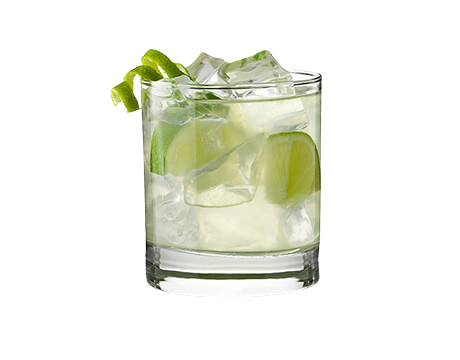
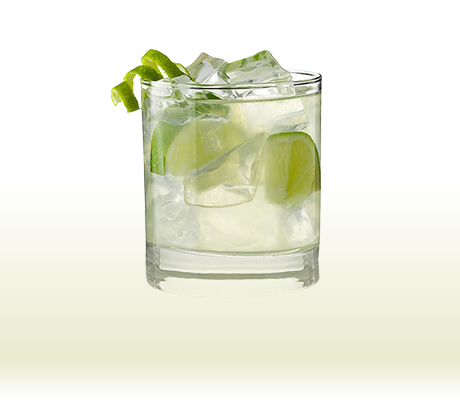
Add files via upload

diff --git a/menu-b52/menu-b52.html b/menu-b52/menu-b52.html
@@ -26,37 +26,61 @@
                     <li><a href="#bottled-drinks">BOTTLED DRINKS</a></li>
                     <li><a href="#juices">JUICES</a></li>
                     <li><a href="#milkshakes">MILKSHAKES</a></li>
-                    <li><a href="#coffees">COFFEES</a></li>
                     <i class="fa-solid fa-xmark fas" style="color: #fff;" onclick="closemenu()"></i>
                 </ul>
                 <i class="fa-solid fa-bars fas" id="mobile-menu" onclick="openmenu()"></i>
             </nav>
-           
+
+
+
+            
         </div>
+    </div>
+
+    <div class="cocktail-header">
+        <h1>THE <span>B-52 BAR</span> MENU</h1>
     </div>
 
     <div id="cocktails">
         <div class="container">
 
-            <div class="cocktail-header">
-                <h1>THE <span>B-52 BAR</span> MENU</h1>
-            </div>
+            
 
+
+            <div class="cocktail-header" id = "cocktail-list">
+              <h1>POPULAR COCKTAILS</h1>
+          </div>
             <div id="carouselExample" class="carousel slide">
               
               <div class="carousel-inner">
                 <div class="carousel-item active">
                   <img src="mojito.png" class="d-block w-100" alt="...">
+                  <div class="carousel-caption d-md-block">
+                    <h5>Mojito</h5>
+                  </div>
+
                 </div>
                 <div class="carousel-item">
                   <img src="aperol-spritz.png" class="d-block w-100" alt="...">
+                  <div class="carousel-caption d-md-block">
+                    <h5>Aperol Spritz</h5>
+                  </div>
                 </div>
+
                 <div class="carousel-item">
                   <img src="strawberrydaquiri.png" class="d-block w-100" alt="...">
+                  <div class="carousel-caption d-md-block">
+                    <h5>Strawberry Daquiry</h5>
+                  </div>
                 </div>
+
                 <div class="carousel-item">
                   <img src="caipirinhia.png" class="d-block w-100" alt="...">
+                  <div class="carousel-caption d-md-block">
+                    <h5>Caipirinhia</h5>
+                  </div>
                 </div>
+
               </div>
               <button class="carousel-control-prev" type="button" data-bs-target="#carouselExample" data-bs-slide="prev">
                 <span class="carousel-control-prev-icon" aria-hidden="true"></span>
@@ -69,7 +93,7 @@
             </div>
 
 
-            <div class="cocktail-header" id="cocktail-list">
+            <div class="cocktail-header" >
                 <h1>COCKTAILS</h1>
                 <p></p>
             </div>

diff --git a/menu-b52/menu-style.css b/menu-b52/menu-style.css
@@ -33,9 +33,6 @@ body{
 
 #header{
   width: 100%;
-  background-image: url();
-  background-size: cover;
-  background-position: center;
 }
 
 .container{ 
@@ -107,6 +104,31 @@ nav ul li a:hover::after{
   font-size: 60px;
 }
 
+
+.carousel-item .carousel-caption h5{
+  font-size: 40px;
+  font-weight: 700;
+  color: var(--yellow);
+  text-shadow:
+    -2px -2px 0 #000,
+    2px -2px 0 #000,
+    -2px 2px 0 #000,
+    2px 2px 0 #000;  
+}
+
+.cocktail-header {
+  margin-left: 10px;
+  margin-right: 10px;
+  margin-bottom: 40px;
+  margin-top: 100px;
+  color: var(--yellow);
+}
+
+.cocktail-header h1{
+  font-size: 40px;
+  font-weight: 900;
+}
+
 #cocktails{
   margin-top: 50px;
   display: flex;
@@ -118,9 +140,13 @@ nav ul li a:hover::after{
   margin-left: 10px;
   margin-right: 10px;
   margin-bottom: 40px;
-  font-size: 30px;
   margin-top: 40px;
   color: var(--yellow);
+}
+
+#cocktails .container .cocktail-header h1{
+  font-size: 40px;
+  font-weight: 900;
 }
 
 #cocktails .container .cocktail-type  {
@@ -210,7 +236,8 @@ nav .fas{
   text-align: center;
   background: #262626;
   padding: 10px;
-  margin-top: 50px;
+  margin-top: 100px;
+  color: #fff;
 }
 
 .copyright p{
